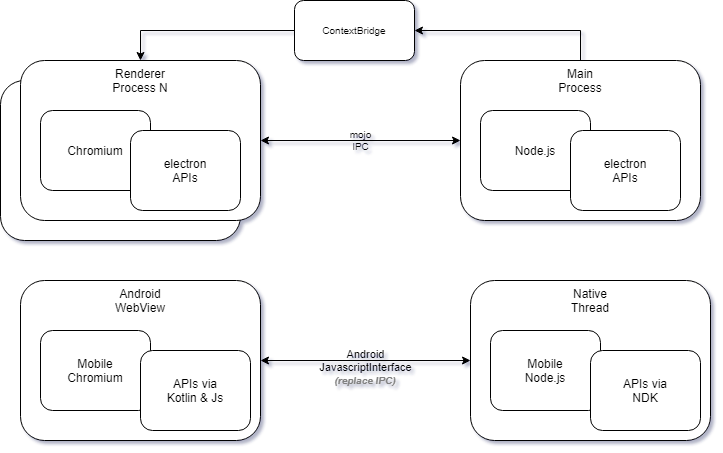
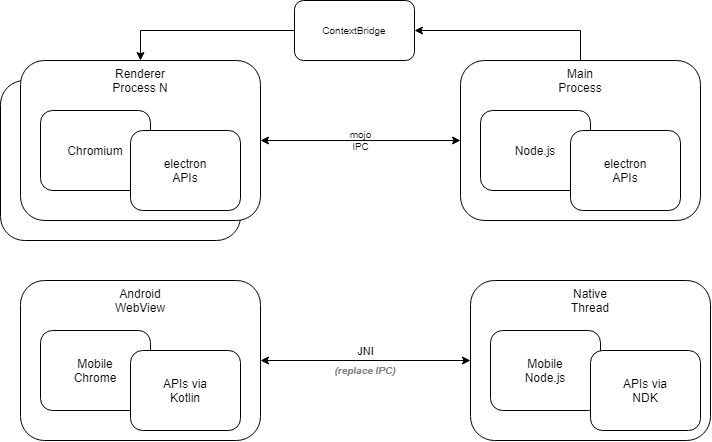
docs: update README

diff --git a/android_app/electron/src/main/java/com/electrom/process/MainProcess.kt b/android_app/electron/src/main/java/com/electrom/process/MainProcess.kt
@@ -26,7 +26,7 @@ class MainProcess(
     }
 
     private fun commandToRendererProcess(command: String, arguments: String?) {
-        Log.d(LOG_TAG, "CALL -> $command($arguments)")
+        Log.d(LOG_TAG, "CALL -> $command(${arguments ?: ""})")
         when (command) {
             "loadURL" -> {
                 peerRendererProcess.loadUrl(arguments!!)

diff --git a/README.md b/README.md
@@ -2,10 +2,35 @@
 ## Architecture
 ![architecture](./assets/architecture1.png)
 
+### android_app/electron
+- 라이브러리로 분리될 electron API 구현체
+
+### android_app/electron/src/main/cpp
+#### android_context.cpp
+- `StartRendererProcess`
+    - Node에서 BrowserWindow 클래스가 생성될 때 호출되는 JNI 함수
+
+- `CommandToRendererProcess`
+    - Android WebView에 명령이 필요할 때 실행되는 JNI 함수
+
+### android_app/electron/src/main/java
+#### ElectronApp.kt
+- `startMainProcess`
+    - electron 자바스크립트 코드를 로드하기 위한 진입점
+
+#### process/MainProcess.kt
+- Node embedded 환경을 구성하고 NDK에서 실행되는 Java함수를 핸들링하는 클래스
+
+#### process/RendererProcess.kt
+- ElectronWebView를 관리하는 클래스
+
+#### view/ElectronWebView.kt
+- electron의 요구사항에 맞는 옵션이 설정되어 있는 WebView
+
 ## Current Goal
 - Support only one renderer process
 - Implement features in these projects first
-    - [ ] https://github.com/electron/simple-samples/tree/master/prices
+    - [x] https://github.com/electron/simple-samples/tree/master/prices
 
 ## Not Goal
 - webPrefernces options (e.g. Node integration)
